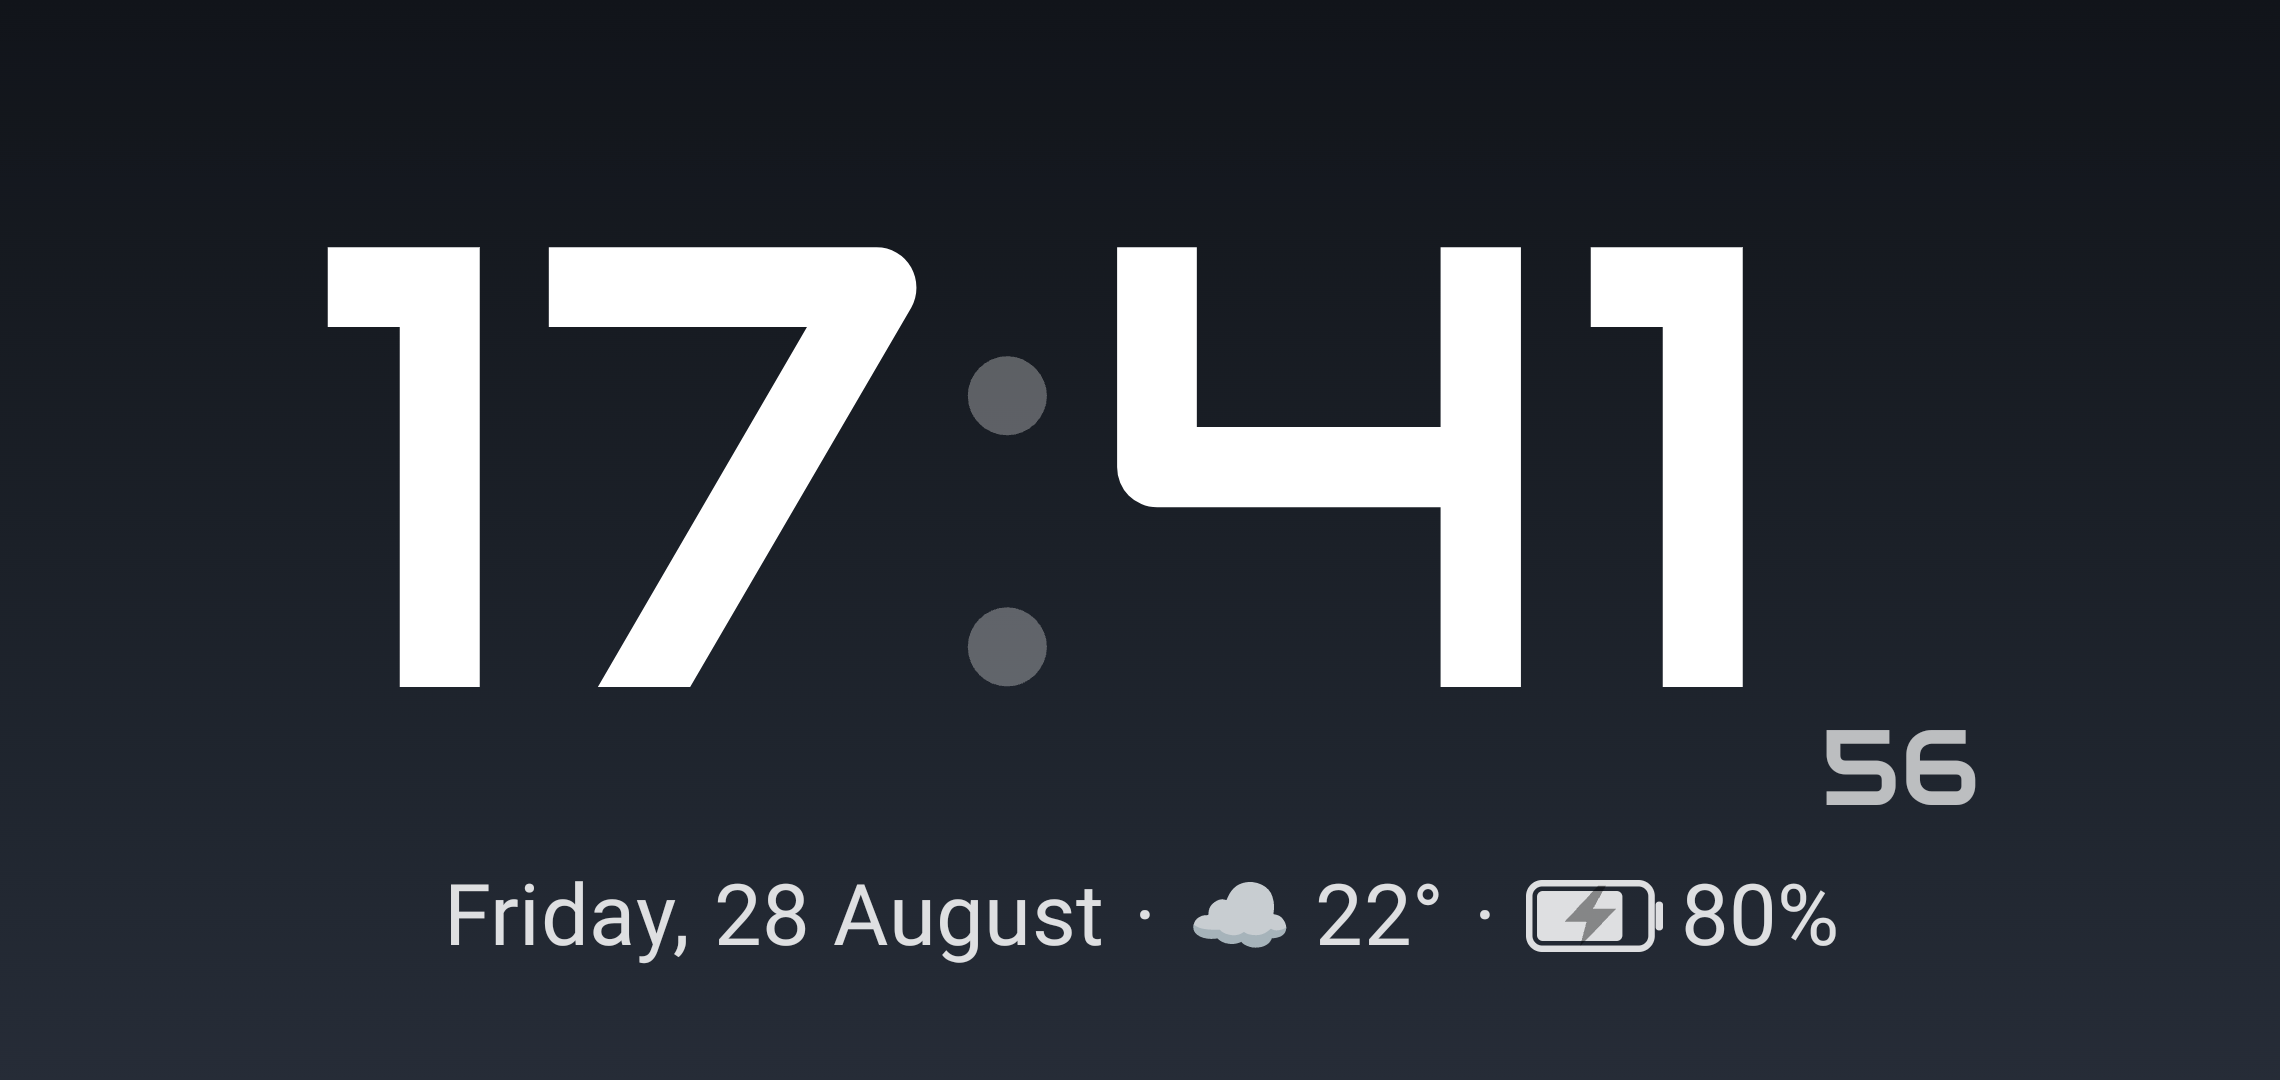
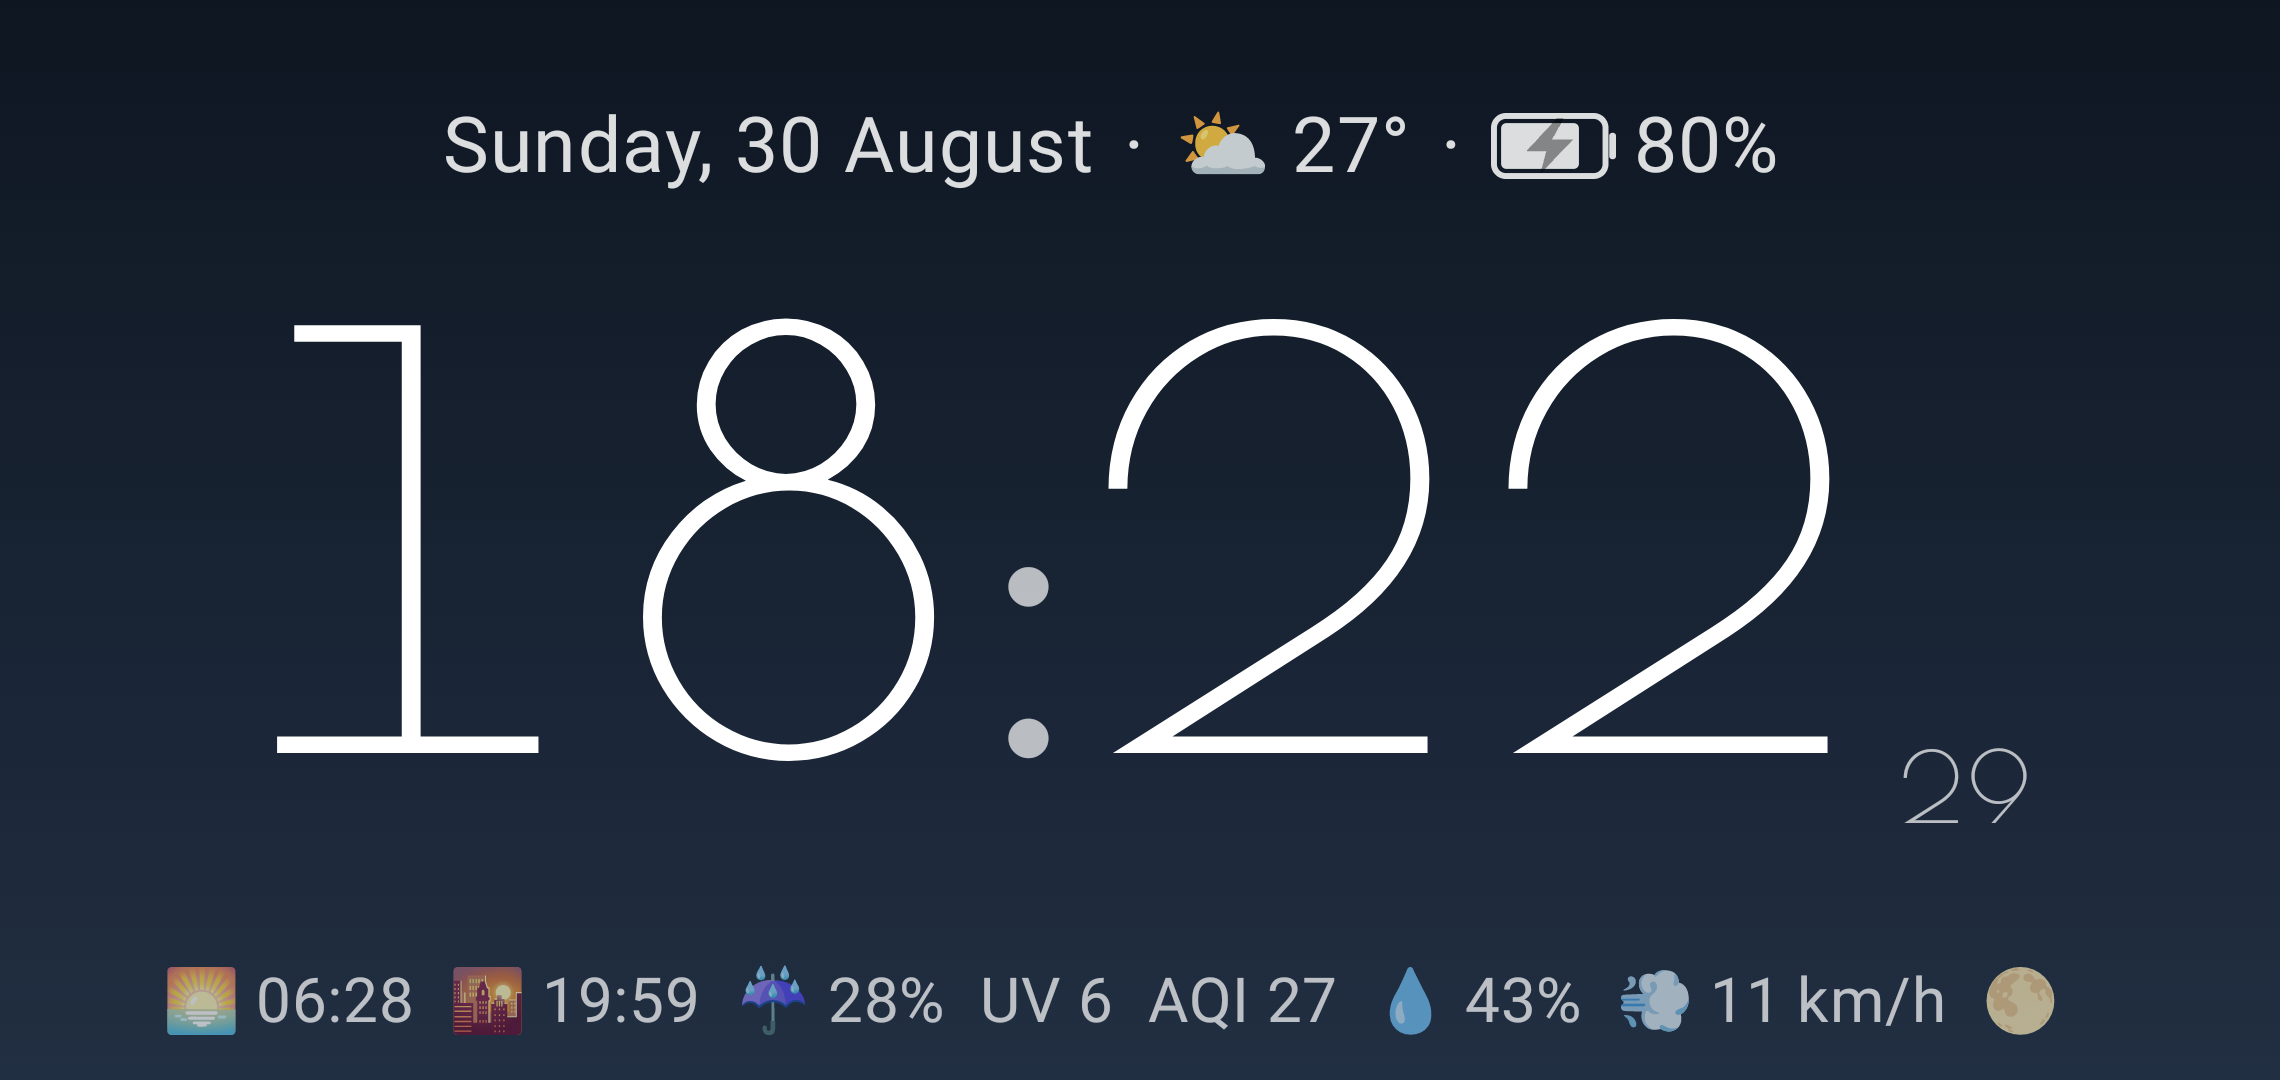
changelog and screenshots

diff --git a/CHANGELOG.md b/CHANGELOG.md
@@ -1,5 +1,13 @@
 # Changelog
 
+## 0.9.0 (2026-08-30) — versionCode 10
+
+- The date/weather/battery row moved above the clock; a new conditions strip sits along the bottom
+  edge: sunrise, sunset, precipitation probability, UV index, air quality (European AQI from
+  Open-Meteo's air-quality endpoint), moon phase (computed locally), humidity, and wind.
+- The screen is now one vertical column with weighted spacers, so no element can overlap another
+  regardless of font or wrapping; time height budget adjusted for the two strips.
+
 ## 0.8.0 (2026-08-28) — versionCode 9
 
 - The clock is now sized from the ACTUAL time string instead of an all-zeros template, so
